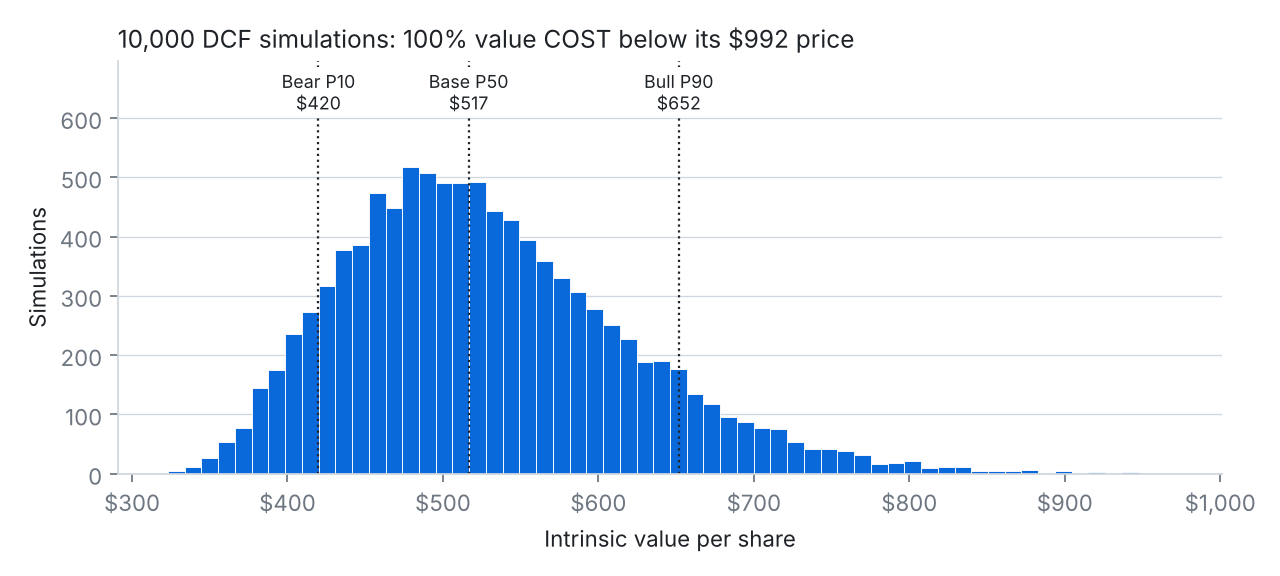
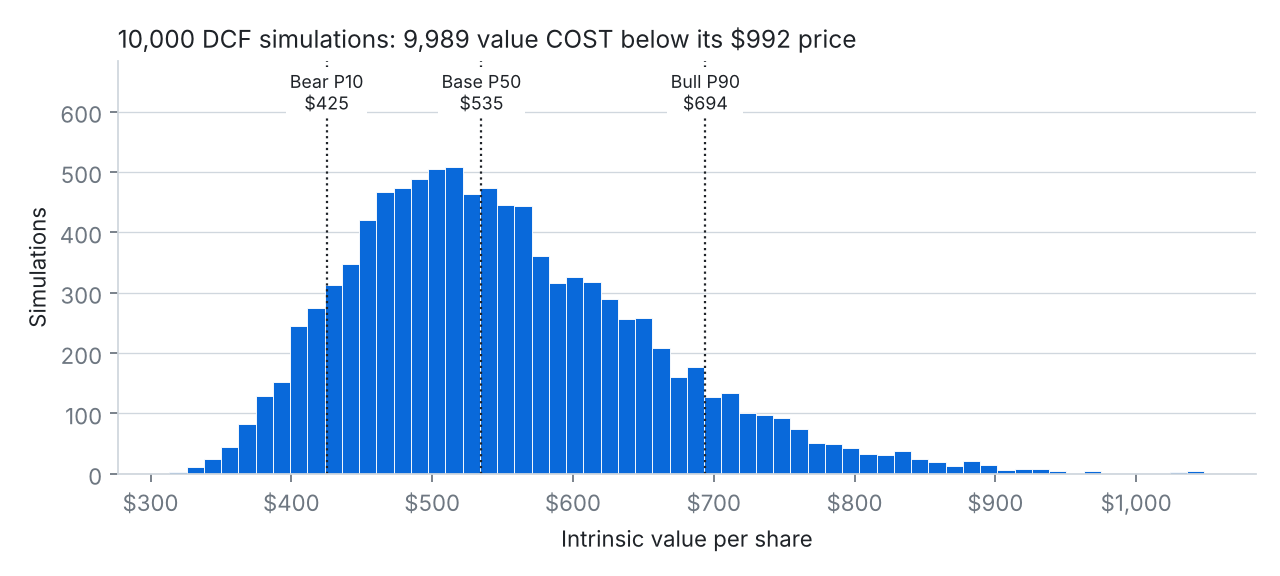
Three-stage DCF: 5-year fade to long-term growth in years 6-10
- Base case: 8%->6% (yrs 1-5), 6%->3% (yrs 6-10), 3% terminal; value
  $493 -> $511, still SELL; terminal value share 84% -> 68%
- Bull case gets the same 5-year fade (8%->3%): $914 -> $973, roughly
  the share price; buyer return 6.8%, +1.6 pts over Treasuries
- DCF horizon now comes from the growth list; margins padded if shorter
- Labels use the forecast end year instead of hard-coded 2031
- Histogram title shows the exact count below price
- README, charts and notebook updated

Claude-Session: https://claude.ai/code/session_01PwWiu9VvfnFup429FUePv6

diff --git a/valuation_engine.py b/valuation_engine.py
@@ -13,9 +13,10 @@ Pipeline
   3. WACC          CAPM cost of equity from the live 10y Treasury yield and a beta
                    from 2 years of weekly returns vs the S&P 500 (adjusted toward 1,
                    with a sanity check)
-  4. DCF           5-year FCFF projection + Gordon-growth terminal value,
+  4. DCF           three-stage FCFF model: years 1-5, a fade to long-term growth in
+                   years 6-10, then a Gordon-growth terminal value; plus a
                    WACC x terminal-growth sensitivity grid
-  5. REVERSE DCF   what the price is assuming, five ways: 5-year growth, perpetual
+  5. REVERSE DCF   what the price is assuming, five ways: forecast growth, perpetual
                    growth, years of high growth, margin, and the yearly return a
                    buyer gets at today's price (vs the 10-year Treasury)
                    + a stacked bull case with every upside lever at once
@@ -252,10 +253,12 @@ def dcf_per_share(cfg: dict, wacc, growth_shift=0.0, margin_shift=0.0,
     wacc = np.asarray(wacc, dtype=float)
     g = np.asarray(b["terminal_growth"] if terminal_g is None else terminal_g, dtype=float)
 
+    n_years = len(b["revenue_growth"])                  # the growth list sets the horizon
+    margins = (list(b["ebit_margin"]) + [b["ebit_margin"][-1]] * n_years)[:n_years]
     rev_prev, pv_fcff, rows = f["revenue"], 0.0, []
-    for t in range(b["projection_years"]):
+    for t in range(n_years):
         rev = rev_prev * (1 + b["revenue_growth"][t] + growth_shift)
-        ebit = rev * (b["ebit_margin"][t] + margin_shift)
+        ebit = rev * (margins[t] + margin_shift)
         nopat = ebit * (1 - tax)
         reinvest = (rev - rev_prev) / b["sales_to_capital"]
         fcff = nopat - reinvest
@@ -266,10 +269,10 @@ def dcf_per_share(cfg: dict, wacc, growth_shift=0.0, margin_shift=0.0,
 
     # Terminal year reinvests only what it needs to grow at g
     rev_tv = rev_prev * (1 + g)
-    fcff_tv = (rev_tv * (b["ebit_margin"][-1] + margin_shift) * (1 - tax)
+    fcff_tv = (rev_tv * (margins[-1] + margin_shift) * (1 - tax)
                - (rev_tv - rev_prev) / b["sales_to_capital"])
     tv = fcff_tv / np.maximum(wacc - g, 0.005)        # guard against wacc <= g
-    pv_tv = tv / (1 + wacc) ** b["projection_years"]
+    pv_tv = tv / (1 + wacc) ** n_years
 
     ev = pv_fcff + pv_tv
     equity = ev + f["cash"] - f["total_debt"]
@@ -302,7 +305,7 @@ def _solve(f, lo: float, hi: float) -> float:
 
 
 def implied_growth(cfg: dict, wacc: float, price: float) -> float:
-    """Reverse DCF, version 1: extra growth needed if ONLY the next 5 years change.
+    """Reverse DCF, version 1: extra growth needed in every forecast year, nothing else changed.
 
     This overstates the requirement for a long-runway business, because
     terminal growth stays at its base value. Versions 2-4 relax that.
@@ -311,7 +314,7 @@ def implied_growth(cfg: dict, wacc: float, price: float) -> float:
 
 
 def implied_terminal_growth(cfg: dict, wacc: float, price: float) -> float:
-    """Reverse DCF, version 2: perpetual growth after 2031 that justifies the price."""
+    """Reverse DCF, version 2: perpetual growth after the forecast that justifies the price."""
     return _solve(lambda g: float(dcf_per_share(cfg, wacc, terminal_g=g)) - price,
                   0.0, wacc - 0.0051)
 
@@ -337,7 +340,7 @@ def implied_runway_years(cfg: dict, wacc: float, price: float, growth: float,
 
 
 def implied_margin(cfg: dict, wacc: float, price: float) -> float:
-    """Reverse DCF, version 4: 2031 operating margin needed with base-case growth."""
+    """Reverse DCF, version 4: final-year operating margin needed with base-case growth."""
     shift = _solve(lambda x: float(dcf_per_share(cfg, wacc, margin_shift=x)) - price, -0.03, 0.15)
     return cfg["dcf_base_case"]["ebit_margin"][-1] + shift
 
@@ -360,9 +363,12 @@ def bull_cfg(cfg: dict) -> dict:
     c = json.loads(json.dumps(cfg))
     bc, b = cfg["bull_case"], c["dcf_base_case"]
     n = bc["projection_years"]
-    b["projection_years"] = n
-    b["revenue_growth"] = _line_fade(bc["growth_start"], bc["growth_end"], n)
-    b["ebit_margin"] = _line_fade(bc["margin_start"], bc["margin_end"], n)
+    k = bc.get("fade_years", 0)
+    g_end, tg = bc["growth_end"], b["terminal_growth"]
+    fade = [g_end - (g_end - tg) * (i + 1) / k for i in range(k)]   # glide down to terminal growth
+    b["revenue_growth"] = _line_fade(bc["growth_start"], g_end, n) + fade
+    b["ebit_margin"] = _line_fade(bc["margin_start"], bc["margin_end"], n) + [bc["margin_end"]] * k
+    b["projection_years"] = n + k
     return c
 
 
@@ -460,8 +466,8 @@ def save_charts(out: Path, price: float, target: float, mc_dcf: np.ndarray,
     ax.set_axisbelow(True)
     for s in ("top", "right"):
         ax.spines[s].set_visible(False)
-    share_below = (mc_dcf < price).mean()
-    ax.set_title(f"{len(mc_dcf):,} DCF simulations: {share_below:.0%} value COST below its "
+    n_below = int((mc_dcf < price).sum())
+    ax.set_title(f"{len(mc_dcf):,} DCF simulations: {n_below:,} value COST below its "
                  f"${price:,.0f} price", loc="left", fontsize=11)
     fig.tight_layout()
     paths.append(out / "monte_carlo_dcf.png")
@@ -481,7 +487,7 @@ CREATE TABLE IF NOT EXISTS runs (
     risk_free_rate REAL, beta REAL, wacc REAL, terminal_growth REAL,
     dcf_value REAL, target_price REAL, rating TEXT, upside REAL,
     implied_5y_growth REAL, implied_terminal_growth REAL, implied_runway_years INTEGER,
-    implied_2031_margin REAL, implied_return REAL, bull_case_value REAL,
+    implied_final_margin REAL, implied_return REAL, bull_case_value REAL,
     implied_return_bull REAL, comps_pe_value REAL, comps_ev_ebitda_value REAL,
     mc_dcf_p10 REAL, mc_dcf_p50 REAL, mc_dcf_p90 REAL, mc_share_below_price REAL,
     volatility REAL, prob_price_below_target_1y REAL
@@ -597,7 +603,7 @@ def main(argv: list[str] | None = None) -> dict:
     with pd.option_context("display.float_format", "{:,.0f}".format, "display.width", WIDTH):
         print(d["table"].to_string())
     print()
-    line("PV of 5-year free cash flow", usd(d["pv_fcff"], 0))
+    line(f"PV of {len(d['table'])}-year free cash flow", usd(d["pv_fcff"], 0))
     line("PV of terminal value", usd(d["pv_tv"], 0))
     line("Terminal value share of enterprise value", pct(d["tv_share"], 0))
     line("Equity value (EV + cash - debt)", usd(d["equity_value"], 0))
@@ -609,20 +615,22 @@ def main(argv: list[str] | None = None) -> dict:
 
     # 5. Reverse DCF -----------------------------------------------------------
     b = cfg["dcf_base_case"]
-    base_avg = float(np.mean(b["revenue_growth"]))
+    gl = b["revenue_growth"]
+    end_year = 2026 + len(gl)
+    base_avg = float(np.mean(gl))
     g5 = base_avg + implied_growth(cfg, w.wacc, price)
     g_term = implied_terminal_growth(cfg, w.wacc, price)
     rw_g = cfg.get("reverse_dcf", {}).get("runway_growth", 0.10)
     rw_years = implied_runway_years(cfg, w.wacc, price, rw_g)
     m_need = implied_margin(cfg, w.wacc, price)
     banner("4. WHAT IS THE PRICE ASSUMING?  (reverse DCF, five ways)")
-    print(f"  Base case: {base_avg:.0%} average growth for 5 years, {b['terminal_growth']:.0%} after,"
-          f" {b['ebit_margin'][-1]:.1%} margin")
-    line("1. Growth for 5 yrs, nothing else changed", pct(g5))
-    line("2. Growth forever after 2031", "above WACC" if _bad(g_term) else pct(g_term))
+    print(f"  Base case: growth {gl[0]:.0%} -> {gl[min(4, len(gl) - 1)]:.0%} (years 1-5), down to {gl[-1]:.0%}"
+          f" by year {len(gl)}, {b['terminal_growth']:.0%} after; margin {b['ebit_margin'][-1]:.1%}")
+    line(f"1. Average growth, every year {2027}-{end_year}", pct(g5))
+    line(f"2. Growth forever after {end_year}", "above WACC" if _bad(g_term) else pct(g_term))
     line(f"3. Years of {rw_g:.0%} growth before slowing",
          f"over 60" if rw_years is None else f"{rw_years}")
-    line("4. 2031 operating margin, base-case growth", pct(m_need))
+    line(f"4. {end_year} operating margin, base-case growth", pct(m_need))
     print("  For reference: FY2026 net sales grew 10.1%; revenue has compounded ~8.7%")
     print("  a year since FY2004; FY2026 operating margin was 3.85%.")
 
@@ -641,7 +649,8 @@ def main(argv: list[str] | None = None) -> dict:
         bull_ret = implied_return(bull, price)
         banner("4b. STACKED BULL CASE  (every upside lever at once)")
         print(f"  {bc['projection_years']} years of growth fading {bc['growth_start']:.0%} -> {bc['growth_end']:.0%},"
-              f" margins rising to {bc['margin_end']:.1%}, WACC {pct(bull_wacc, 2)}")
+              f" then {bc.get('fade_years', 0)} years down to {b['terminal_growth']:.0%};"
+              f"\n  margins rising to {bc['margin_end']:.1%}, WACC {pct(bull_wacc, 2)}")
         line("Bull-case value per share", usd(bull_val))
         line("vs share price", pct(bull_val / price - 1))
         line("Yearly return at this price if the bull case happens", pct(bull_ret, 2))
@@ -683,7 +692,7 @@ def main(argv: list[str] | None = None) -> dict:
     line("Upside / (downside)", pct(upside))
     runway_txt = "over 60" if rw_years is None else str(rw_years)
     print(f"\n  To justify the price, Costco needs about {runway_txt} years of {rw_g:.0%} growth, or"
-          f"\n  {pct(g_term)} growth forever after 2031. {share_below:.0%} of {n:,} simulated DCFs"
+          f"\n  {pct(g_term)} growth forever after {end_year}. {share_below:.1%} of {n:,} simulated DCFs"
           f"\n  land below today's price.")
     if not _bad(bull_ret):
         print(f"  Even if everything goes right (bull case, worth {usd(bull_val, 0)}), a buyer at this price"
@@ -705,7 +714,7 @@ def main(argv: list[str] | None = None) -> dict:
         "terminal_growth": cfg["dcf_base_case"]["terminal_growth"], "dcf_value": dcf_val,
         "target_price": target, "rating": rating, "upside": upside,
         "implied_5y_growth": g5, "implied_terminal_growth": g_term,
-        "implied_runway_years": rw_years, "implied_2031_margin": m_need,
+        "implied_runway_years": rw_years, "implied_final_margin": m_need,
         "implied_return": exp_ret, "bull_case_value": bull_val, "implied_return_bull": bull_ret,
         "comps_pe_value": implied.get("Peer P/E"), "comps_ev_ebitda_value": implied.get("Peer EV/EBITDA"),
         "mc_dcf_p10": s_dcf["bear_p10"], "mc_dcf_p50": s_dcf["base_p50"], "mc_dcf_p90": s_dcf["bull_p90"],

diff --git a/README.md b/README.md
@@ -10,35 +10,35 @@ Bommisetty Venkata Karthik, MBA (Finance) + MS Business Analytics, UIC
 
 > **In short**
 >
-> - **SELL, $493 target**, with Costco at $992 on October 20, 2026.
+> - **SELL, $511 target**, with Costco at $992 on October 20, 2026.
 > - The price only works if Costco keeps growing about 10% a year for another 20-plus years. I think growth cools sooner.
-> - Even if everything goes right, a buyer at $992 earns about 6.6% a year, only 1.4 points more than a 10-year Treasury bond.
+> - Even if everything goes right, a buyer at $992 earns about 6.8% a year, only 1.6 points more than a 10-year Treasury bond.
 
 ---
 
-## My call: SELL, $493 target
+## My call: SELL, $511 target
 
-When I ran the model with live data on October 20, 2026, Costco was trading at $992.35. My DCF puts it at about $493 a share. When I ran it 10,000 times with different growth, margin and discount rate assumptions, most of the values landed between $420 and $652. All 10,000 came in below the current price, and only about 1% got above $800.
+When I ran the model with live data on October 20, 2026, Costco was trading at $992.35. My DCF puts it at about $511 a share. When I ran it 10,000 times with different growth, margin and discount rate assumptions, most of the values landed between $425 and $694. 9,989 of the 10,000 came in below the current price, and only about 2.6% got above $800.
 
 I want to be clear that I think Costco is a great company. It barely uses debt, members pay up front, suppliers basically fund its inventory, and it covers its interest payments about 80 times over. My issue is the price. At 48x earnings and 12x book value, investors are paying for years of perfect execution from a business that keeps only about 3 cents of every sales dollar as profit.
 
 A few things convinced me:
 
-1. **The price needs Costco to beat its own best run.** I ran the DCF backwards to see what it takes to justify $992 a share. My first version only let the next five years change, which said Costco needs about 28% growth a year. That overstates it, because most of a company like this is worth what happens after year five. So I solved it three other ways. The price works if Costco grows revenue 10% a year for about 21 years before slowing down, or grows 5.9% a year forever after 2031, or roughly doubles its operating margin to about 7.9%. For context, Costco's revenue has compounded about 8.7% a year since FY2004. So the market isn't asking for something impossible. It's asking for Costco to do a little better than the last two decades, for about as long again, starting from a $300 billion base. My base case assumes it slows to 8% fading to 6% over five years, then 3%. That slowdown is the core of my call.
-2. **The result held up when I stress-tested it.** My first set of simulation ranges was too narrow, so I widened them (how I set them is under My assumptions). Even with growth anywhere from 3% to 11% a year, margins up to 5.1% and a discount rate swinging 1.5 points either way, every simulation still landed below the current price. The most optimistic corner of my sensitivity table (6.8% WACC, 4% long-term growth) gets to $778. Peer multiples point the same way: at the median P/E of Walmart, Target and BJ's, Costco would be worth about $463.
+1. **The price needs Costco to beat its own best run.** I ran the DCF backwards to see what it takes to justify $992 a share. My first version only let the first five years change, which said Costco needs about 28% growth a year. That overstates it, because most of a company like this is worth what happens later. So I solved it three other ways. The price works if Costco grows revenue 10% a year for about 21 years before slowing down, or grows 6.1% a year forever after my 10-year forecast, or roughly doubles its operating margin to about 7.6%. For context, Costco's revenue has compounded about 8.7% a year since FY2004. So the market isn't asking for something impossible. It's asking for Costco to do a little better than the last two decades, for about as long again, starting from a $300 billion base. My base case has growth fading from 8% to 6% over five years, then gliding down to 3% over the next five. That slowdown is the core of my call.
+2. **The result held up when I stress-tested it.** My first set of simulation ranges was too narrow, so I widened them (how I set them is under My assumptions). Even with the whole growth path shifting up or down by as much as 4 points a year, margins up to 5.1% and a discount rate swinging 1.5 points either way, all but 11 of the 10,000 simulations landed below the current price. The most optimistic corner of my sensitivity table (6.8% WACC, 4% long-term growth) gets to $784. Peer multiples point the same way: at the median P/E of Walmart, Target and BJ's, Costco would be worth about $463.
 3. **A lot depends on membership fees.** Fees are under 2% of revenue but about half of operating income. If renewal rates slip from around 90%, earnings would take a much bigger hit than the revenue numbers suggest.
 
 **Most analysts disagree with me.** As of October 21, 2026, 20 of the 27 analysts covering Costco rate it a Buy, with an average target around $1,094, and even the lowest target ($781) is well above mine ([TipRanks](https://www.tipranks.com/stocks/COST/forecast)). I think the gap comes down to the runway question above. The Street is paying for Costco to keep compounding near its historical pace for a long time, and I'm assuming that growth fades much sooner. I could be wrong on that, but it's a deliberate bet, not a modeling accident.
 
-**Why I think growth slows.** Costco's roughly 10% growth comes from two places. About 3 points come from new warehouses: it opened 25 net new ones in FY2026 on a base of about 914, and plans about 28 more in FY2027. The rest comes from existing warehouses, where comparable sales grew 6.6% excluding gas and currency. The new-warehouse part can't really speed up. Costco opens about 25 to 30 a year, and as the base grows, the same number of openings adds a smaller percentage. With 647 of its 939 warehouses already in the U.S. and Puerto Rico, more of the new growth has to come from international markets, which take years to ramp up. So the price is really a bet that existing-warehouse sales keep growing 6 to 7% a year for two decades. Same-store growth for mature retailers usually drifts down toward inflation plus a little extra traffic, and that's the fade my base case assumes: 8% fading to 6% over five years, then 3%.
+**Why I think growth slows.** Costco's roughly 10% growth comes from two places. About 3 points come from new warehouses: it opened 25 net new ones in FY2026 on a base of about 914, and plans about 28 more in FY2027. The rest comes from existing warehouses, where comparable sales grew 6.6% excluding gas and currency. The new-warehouse part can't really speed up. Costco opens about 25 to 30 a year, and as the base grows, the same number of openings adds a smaller percentage. With 647 of its 939 warehouses already in the U.S. and Puerto Rico, more of the new growth has to come from international markets, which take years to ramp up. So the price is really a bet that existing-warehouse sales keep growing 6 to 7% a year for two decades. Same-store growth for mature retailers usually drifts down toward inflation plus a little extra traffic, and that's the fade my base case assumes. Growth goes from 8% to 6% over the first five years, then glides down to 3% over years six to ten instead of dropping off a cliff. My first version went straight from 6% to 3% in a single year, which didn't match this story, so I changed it to three stages. It only moved the value from $493 to $511, because years six to ten still average just over 4%.
 
-**Even if everything goes right, the return is thin.** A lot of people own Costco for safety and consistency, not because they ran a DCF, and that's a real preference. Investors will accept a lower return for a stock that barely moves in a recession. So I asked what return a buyer actually gets at $992, and I started from the most generous forecast I could defend instead of my own. I stacked every bull lever at once: a 10-year forecast with growth fading from 9% to 8%, margins rising to 4.8% from ads, e-commerce, Kirkland and future fee increases, and a discount rate a full point lower (6.8%) for Costco's safety and low beta. That gets the value to about $914, still about 8% below the price. Solving for the return a buyer earns at $992 in that case gives about 6.6% a year, only 1.4 points more than the 10-year Treasury, which was paying about 5.1% that day. Investors usually want several points more than that for owning a stock. Under my own base case it's worse: about 5.4%, just 0.3 points over Treasuries. I lead with the bull-case number because it already gives Costco the benefit of the doubt, so nobody can say it's low just because my forecast is pessimistic.
+**Even if everything goes right, the return is thin.** A lot of people own Costco for safety and consistency, not because they ran a DCF, and that's a real preference. Investors will accept a lower return for a stock that barely moves in a recession. So I asked what return a buyer actually gets at $992, and I started from the most generous forecast I could defend instead of my own. I stacked every bull lever at once: 10 years of growth fading only from 9% to 8%, then five more years gliding down to 3%, margins rising to 4.8% from ads, e-commerce, Kirkland and future fee increases, and a discount rate a full point lower (6.8%) for Costco's safety and low beta. That gets the value to about $973, roughly where the stock trades. So the market is basically pricing in the bull case. Solving for the return a buyer earns at $992 in that case gives about 6.8% a year, only 1.6 points more than the 10-year Treasury, which was paying about 5.1% that day. Investors usually want several points more than that for owning a stock. Under my own base case it's worse: about 5.5%, just 0.4 points over Treasuries. I lead with the bull-case number because it already gives Costco the benefit of the doubt, so nobody can say it's low just because my forecast is pessimistic.
 
-Nobody buying Costco is being dumb, but the price of that safety has gotten very high. Today's price already pays for the best case. If things go right, you roughly break even on valuation. If they don't, my base case says the stock is worth about half. That lopsided risk is why I'm sticking with SELL and not HOLD, even though the bull case gets close.
+Nobody buying Costco is being dumb, but the price of that safety has gotten very high. Today's price already pays for the best case. If things go right, you roughly break even on valuation. If they don't, my base case says the stock is worth about half. That lopsided risk is why I'm sticking with SELL and not HOLD, even though the bull case lands close to the price.
 
 **This has happened before.** In 1999 Walmart was a great business trading at about 39 times earnings. Over the next decade its earnings per share grew about 10% a year, but the P/E fell to around 16, and someone who bought in 1999 was still underwater in 2008 ([The Rational Walk](https://rationalwalk.com/wal-marts-ten-year-record-a-case-study-of-the-dangers-of-overpaying-for-growth/)). Costco doesn't have to crash for SELL to be right. The business can keep doing well while the stock goes nowhere because it started too expensive.
 
-One thing I had to think about: this is a valuation call, not a prediction that the stock drops next month. When I simulated where the stock could trade in a year based on its normal volatility, the odds of it actually hitting $493 were under 1%. Expensive stocks can stay expensive for a long time, especially ones people trust as much as Costco. My point is that the risk/reward at this price is bad, not that a crash is coming.
+One thing I had to think about: this is a valuation call, not a prediction that the stock drops next month. When I simulated where the stock could trade in a year based on its normal volatility, the odds of it actually hitting $511 were under 1%. Expensive stocks can stay expensive for a long time, especially ones people trust as much as Costco. My point is that the risk/reward at this price is bad, not that a crash is coming.
 
 ![Valuation ranges vs share price](charts/football_field.png)
 
@@ -68,12 +68,12 @@ Each run does roughly this:
 - Pulls prices and multiples for Costco, Walmart, Target and BJ's, plus a year of daily prices and the 10-year Treasury yield
 - Builds a comps table and shows what Costco would be worth at its peers' P/E and EV/EBITDA
 - Calculates WACC using the current Treasury yield and a beta from two years of weekly returns against the S&P 500
-- Runs a 5-year DCF with a terminal value and a sensitivity table
+- Runs a three-stage DCF (five years, a five-year fade to long-term growth, then a terminal value) with a sensitivity table
 - Runs the reverse DCF described above
 - Runs two separate Monte Carlo simulations
 - Saves everything to a SQLite database so I can see how the valuation changes over time
 
-**How the reverse DCF works:** It solves for the one input that makes the DCF equal today's price, five different ways: five years of growth with nothing else changed, growth forever after 2031, years of 10% growth before slowing, the 2031 operating margin, and the discount rate (which is the return a buyer earns at today's price). The first version alone exaggerates what the price needs, so I report all five. The model also runs the stacked bull case described above and compares its return with the live 10-year Treasury yield.
+**How the reverse DCF works:** It solves for the one input that makes the DCF equal today's price, five different ways: growth in every forecast year with nothing else changed, growth forever after the forecast, years of 10% growth before slowing, the final-year operating margin, and the discount rate (which is the return a buyer earns at today's price). The first version alone exaggerates what the price needs, so I report all five. The model also runs the stacked bull case described above and compares its return with the live 10-year Treasury yield.
 
 **Why two simulations?** I originally planned to use the stock's historical volatility to stress-test the DCF, but that mixes two different things. How much a stock's price moves day to day doesn't tell you how uncertain its future cash flows are. So the first simulation reruns the DCF with different business assumptions to get a range for what Costco is worth. The second uses the stock's volatility to see where the price might actually trade in a year. Comparing the two is how I got to the valuation vs timing point above.
 
@@ -84,14 +84,14 @@ Each run does roughly this:
 All the inputs are in [`assumptions.json`](assumptions.json), so anyone can change a number and rerun it.
 
 - **Starting point:** Costco's actual FY2026 numbers from their earnings release. Revenue of $303.2B, operating income of $11.7B, $20.2B in cash, $6.2B of debt and 443.3M shares.
-- **Revenue growth, 8% fading to 6%:** FY2026 was 10.1%, about 3 points from new warehouses and the rest from existing ones. I expect existing-warehouse growth to cool toward inflation plus a little traffic, while new openings stay around 3% of the base (see "Why I think growth slows" above).
-- **Operating margin, 3.9% rising to 4.1%:** It was 3.85% in FY2026. I allowed a small increase from membership fees and scale, but Costco keeps product margins thin on purpose, so I didn't want to assume much.
-- **Sales-to-capital, 8x:** This controls how much Costco has to reinvest to grow. Right now its revenue is about 14x its invested capital, partly because suppliers fund so much of its inventory. I used 8x to be conservative about new warehouse costs. At 14x the value only goes up to about $527, so this doesn't change the conclusion.
+- **Revenue growth, three stages:** 8% fading to 6% in years one to five, then 6% gliding down to 3% in years six to ten, then 3% forever. FY2026 was 10.1%, about 3 points from new warehouses and the rest from existing ones. I expect existing-warehouse growth to cool toward inflation plus a little traffic, while new openings shrink as a share of a bigger base (see "Why I think growth slows" above).
+- **Operating margin, 3.9% rising to 4.1% and holding:** It was 3.85% in FY2026. I allowed a small increase from membership fees and scale, but Costco keeps product margins thin on purpose, so I didn't want to assume much.
+- **Sales-to-capital, 8x:** This controls how much Costco has to reinvest to grow. Right now its revenue is about 14x its invested capital, partly because suppliers fund so much of its inventory. I used 8x to be conservative about new warehouse costs. At 14x the value only goes up to about $548, so this doesn't change the conclusion.
 - **Tax rate, 24%:** Close to Costco's recent effective rate.
 - **Discount rate:** Live Treasury yield, a 5% equity risk premium, and a beta from two years of weekly returns, adjusted toward 1 like most data providers do. My first version used one year of daily returns and got a beta of -0.17, which would mean Costco moves opposite to the market. That's not realistic, so the model now checks for it and falls back to Yahoo's published beta if the number looks off.
 - **Long-term growth, 3%:** Roughly in line with long-run nominal GDP.
-- **Monte Carlo ranges:** Each input gets its own bear, base and bull value, and each run draws from all four independently. Growth runs 4 points below to 4 points above the base path, so 3% to 11% a year on average, and the top end is FY2026's pace held for five years. Margin goes from 0.5 points lower to 1 point higher, which covers the margins-reach-5% scenario below. The discount rate moves 1.5 points either way, and long-term growth ranges from 2% to 4%. I skewed margins upward on purpose, which is why the simulation median ($517) is above my base case. Because the draws are independent, it's rare for every input to hit its best case in the same run. That's why the simulation doesn't reach the best corner of the sensitivity table.
-- **Stacked bull case:** A 10-year forecast with growth fading from 9% to 8%, operating margin rising from 3.9% to 4.8%, and a discount rate 1 point below the live WACC. It's in `assumptions.json` under `bull_case` so anyone can change it.
+- **Monte Carlo ranges:** Each input gets its own bear, base and bull value, and each run draws from all four independently. The whole 10-year growth path shifts by up to 4 points either way, so year-one growth runs from 4% to 12% (FY2026 was 10.1%). Margin goes from 0.5 points lower to 1 point higher, which covers the margins-reach-5% scenario below. The discount rate moves 1.5 points either way, and long-term growth ranges from 2% to 4%. I skewed margins upward on purpose, which is why the simulation median ($535) is above my base case. Because the draws are independent, it's rare for every input to hit its best case in the same run. That's why the simulation doesn't reach the best corner of the sensitivity table.
+- **Stacked bull case:** 10 years of growth fading from 9% to 8%, then a five-year glide down to 3% (the same kind of fade as the base case), operating margin rising from 3.9% to 4.8%, and a discount rate 1 point below the live WACC. It's in `assumptions.json` under `bull_case` so anyone can change it.
 - **Rating rule:** BUY above +10% upside, SELL below -10%, HOLD in between. The rating comes from the base case, not the bull case.
 
 ## What could prove me wrong
@@ -102,7 +102,7 @@ All the inputs are in [`assumptions.json`](assumptions.json), so anyone can chan
 
 ## What I learned
 
-The biggest thing was learning to separate a great company from a good stock. Everything about Costco's balance sheet looks strong, but that doesn't make it a good buy at any price. I also learned how much a DCF depends on the terminal value. About 84% of my value comes from years after 2031, which made me a lot more careful about what I assume there. The same thing tripped up my first reverse DCF: it said the price needed 28% growth, but only because I forced all the extra growth into five years. Asking the question a few different ways gave a much fairer answer.
+The biggest thing was learning to separate a great company from a good stock. Everything about Costco's balance sheet looks strong, but that doesn't make it a good buy at any price. I also learned how much a DCF depends on the terminal value. In my first five-year version, about 84% of the value came from after the forecast. Moving to three stages brought that down to about 68%, which made the model depend less on one number I can't really know. The same thing tripped up my first reverse DCF: it said the price needed 28% growth, but only because I forced all the extra growth into five years. Asking the question a few different ways gave a much fairer answer.
 
 On the technical side, I liked having live data, the DCF, the simulations and a SQL log all in one script instead of spread across Excel tabs. It also made it easy to rerun everything when an assumption changed.
 
